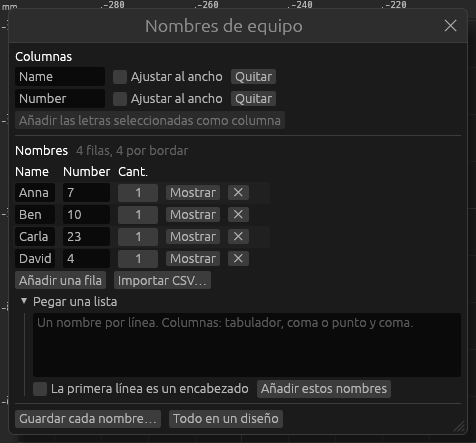
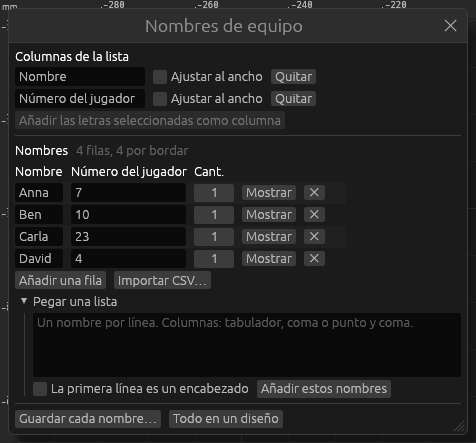
Team names: the column titles in the language of the program
The titles of new team-name columns were always "Name" and "Number" in
English, also in the German, Spanish and Japanese program (the
translators of the tutorials found it). They are text of the user (the
window edits them and a design keeps them), so a new column now gets its
title in the language of the program: "Name" and "Player number"
("Number" is a count in the Buttonholes window, so the team column has
its own key). A saved design keeps its titles.

The heading of the columns in the window is now "List columns": the key
"Columns" is the satin columns of the Columns panel, and German and
Japanese showed that word ("Säulen", "コラム"). The title fields are
wider, so "Spielernummer" shows. The Japanese count line said 列
(columns) for the rows; it says 行 now.

The tutorial and its translations name the titles as the program shows
them, and its window pictures are made again. Test:
the_column_titles_are_in_the_language_of_the_program.

diff --git a/crates/emb-app/src/teamnames.rs b/crates/emb-app/src/teamnames.rs
@@ -73,7 +73,15 @@ impl AppState {
         if tn.columns.iter().any(|c| c.object == id) {
             return;
         }
-        let title = if tn.columns.is_empty() { "Name" } else { "Number" };
+        // The titles are in the language of the program: they are text of
+        // the user (the window edits them), so a saved design keeps them.
+        // "Number" is a count in other windows, so the key is "Player
+        // number".
+        let title = if tn.columns.is_empty() {
+            tr("Name")
+        } else {
+            tr("Player number")
+        };
         tn.columns.push(TeamColumn {
             object: id,
             title: title.into(),
@@ -237,7 +245,9 @@ pub fn window(ctx: &egui::Context, st: &mut AppState) {
     .collapsible(false)
     .default_width(460.0)
     .show(ctx, |ui| {
-        ui.strong(tr("Columns"));
+        // Not "Columns": that is the word for satin columns in some
+        // languages.
+        ui.strong(tr("List columns"));
         if tn.columns.is_empty() {
             ui.weak(tr(
                 "Select a lettering object of the design (for example the name) and add it as a column.",
@@ -246,7 +256,7 @@ pub fn window(ctx: &egui::Context, st: &mut AppState) {
         let mut remove = None;
         for (i, c) in tn.columns.iter_mut().enumerate() {
             ui.horizontal(|ui| {
-                ui.add(egui::TextEdit::singleline(&mut c.title).desired_width(90.0));
+                ui.add(egui::TextEdit::singleline(&mut c.title).desired_width(130.0));
                 let mut fit = c.max_width_mm.is_some();
                 if ui
                     .checkbox(&mut fit, tr("Fit to width"))
@@ -487,6 +497,33 @@ mod tests {
         .unwrap_or(200.0);
         let width = d.extents().unwrap().width();
         assert!(width <= hoop - 2.0 * st.margin_mm + 1e-6, "{width} mm in {hoop} mm");
+    }
+
+    /// The titles of new columns are in the language of the program.
+    #[test]
+    fn the_column_titles_are_in_the_language_of_the_program() {
+        for (lang, titles) in [
+            ("en", ["Name", "Player number"]),
+            ("de", ["Name", "Spielernummer"]),
+            ("ja", ["名前", "背番号"]),
+        ] {
+            crate::i18n::set_language(lang);
+            let mut st = AppState::new(HoopCatalog::builtin(), MachineCatalog::builtin(), String::new());
+            for text in ["NAME", "00"] {
+                st.add_lettering(LetteringDialog::new(
+                    Point::new(0.0, 0.0),
+                    text,
+                    FontRef::embroidery("Block Sans", ""),
+                    12.0,
+                ));
+                let id = st.doc.design().objects().last().unwrap().id;
+                st.team_add_column(id);
+            }
+            crate::i18n::set_language("en");
+            let tn = st.doc.design().team_names.clone().unwrap();
+            let now: Vec<&str> = tn.columns.iter().map(|c| c.title.as_str()).collect();
+            assert_eq!(now, titles, "{lang}");
+        }
     }
 
     #[test]

diff --git a/docs/help/es/tutorial-team-names.md b/docs/help/es/tutorial-team-names.md
@@ -23,10 +23,11 @@ se quedan, el texto cambia.
 1. Arrastre un recuadro alrededor de **NAME** para seleccionarlo.
 2. Haga clic en **Letras > Personalizar > Nombres de equipo**. Se abre la
    ventana **Nombres de equipo**, con las letras seleccionadas como la
-   columna **Name**.
+   columna **Nombre**.
 3. Arrastre un recuadro alrededor de **00** para seleccionarlo.
 4. Haga clic en **Añadir las letras seleccionadas como columna**. La
-   segunda columna es **Number**.
+   segunda columna es **Número del jugador**. Haga clic en un título para
+   cambiarlo.
 
 **Ajustar al ancho** hace más pequeño un nombre largo, para que no sea
 más ancho que el valor (por ejemplo el ancho entre las costuras de una

diff --git a/docs/help/de/tutorial-team-names.md b/docs/help/de/tutorial-team-names.md
@@ -26,7 +26,8 @@ bleiben, der Text ändert sich.
    **Name**.
 3. Ziehen Sie einen Rahmen um **00**, um es auszuwählen.
 4. Klicken Sie auf **Die ausgewählte Schrift als Spalte hinzufügen**. Die
-   zweite Spalte ist **Number** (die Nummer).
+   zweite Spalte ist **Spielernummer**. Klicken Sie auf einen Titel, um ihn
+   zu ändern.
 
 **An Breite anpassen** macht einen langen Namen kleiner, damit er nicht
 breiter als der Wert ist (zum Beispiel die Breite zwischen den Nähten

diff --git a/docs/help/tutorial-team-names.md b/docs/help/tutorial-team-names.md
@@ -28,7 +28,7 @@ their columns: the font, the size and the color stay, the text changes.
    window opens, with the selected lettering as the column **Name**.
 3. Drag a box round **00** to select it.
 4. Click **Add the selected lettering as a column**. The second column is
-   **Number**.
+   **Player number**. Click a title to change it.
 
 **Fit to width** makes a long name smaller, so that it is not wider than
 the value (for example the width between the seams of a sleeve).
